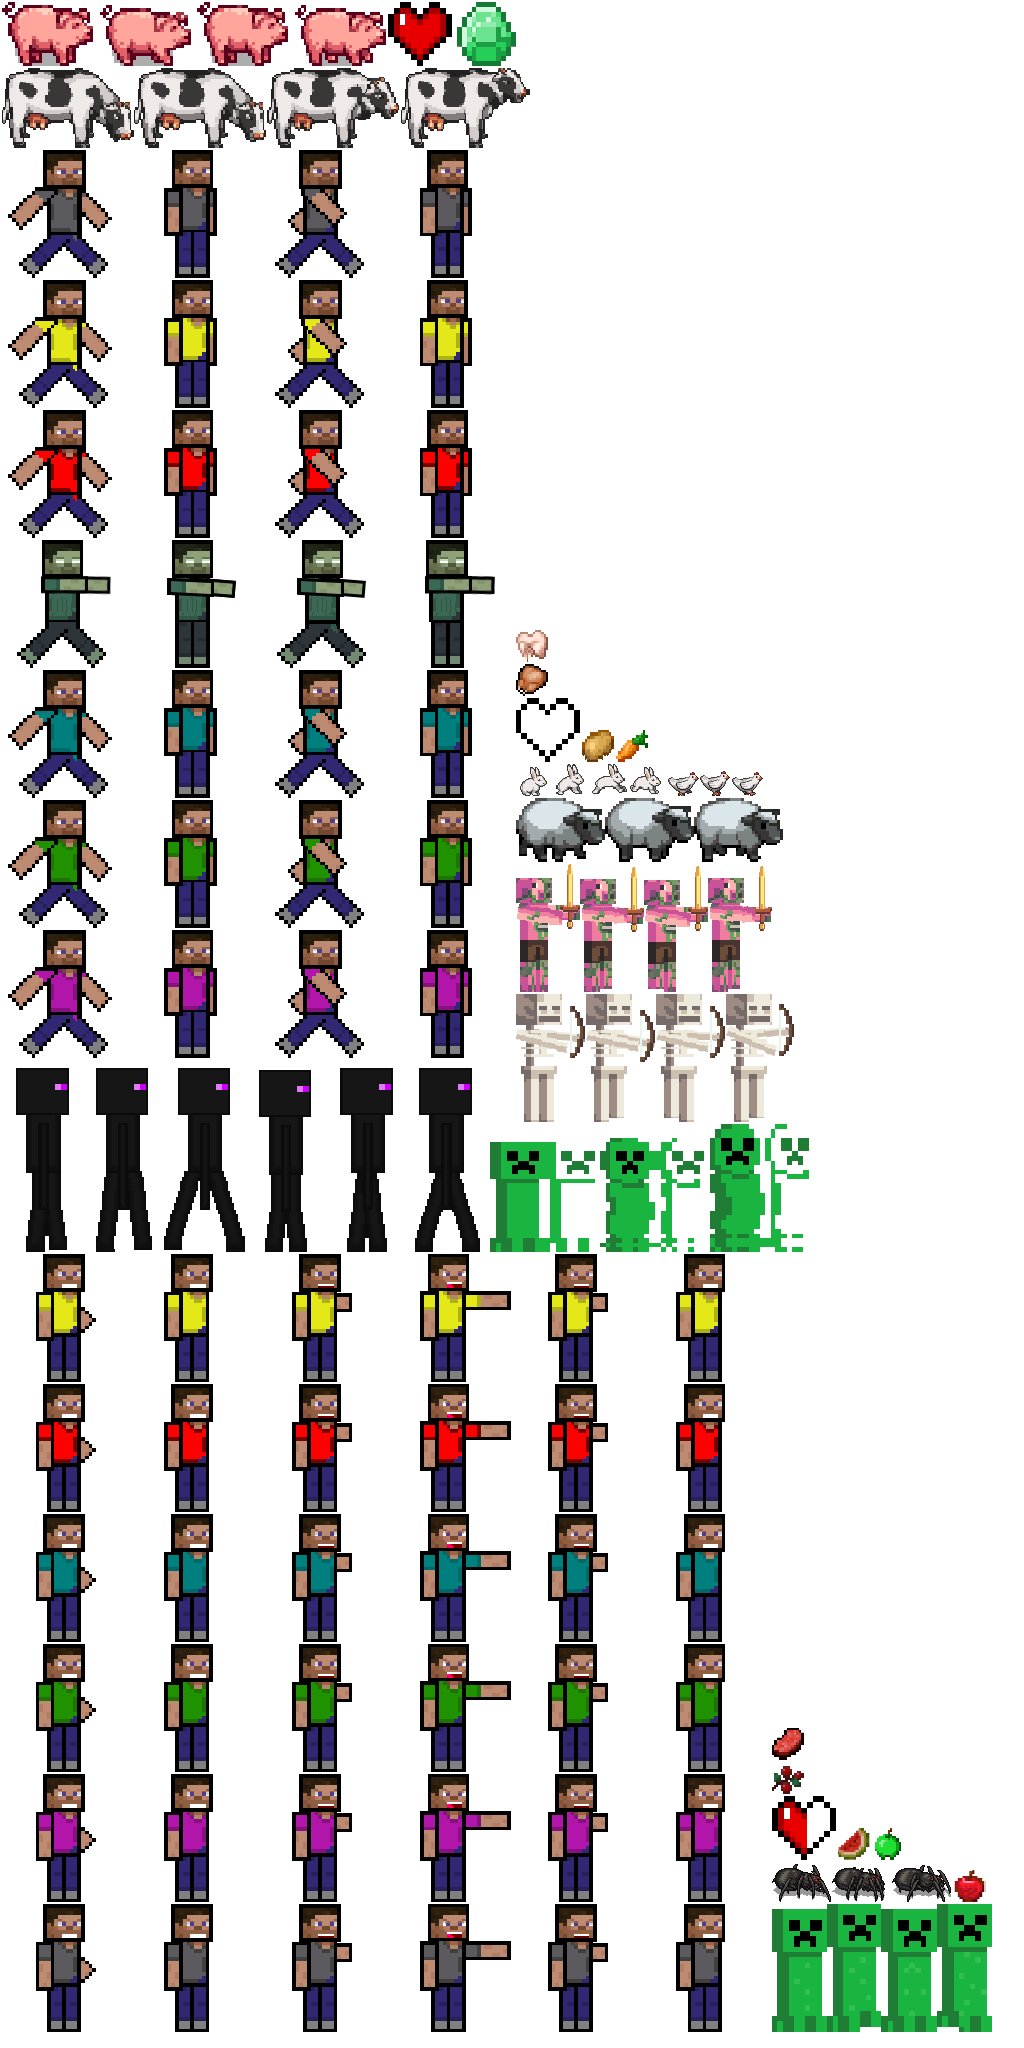
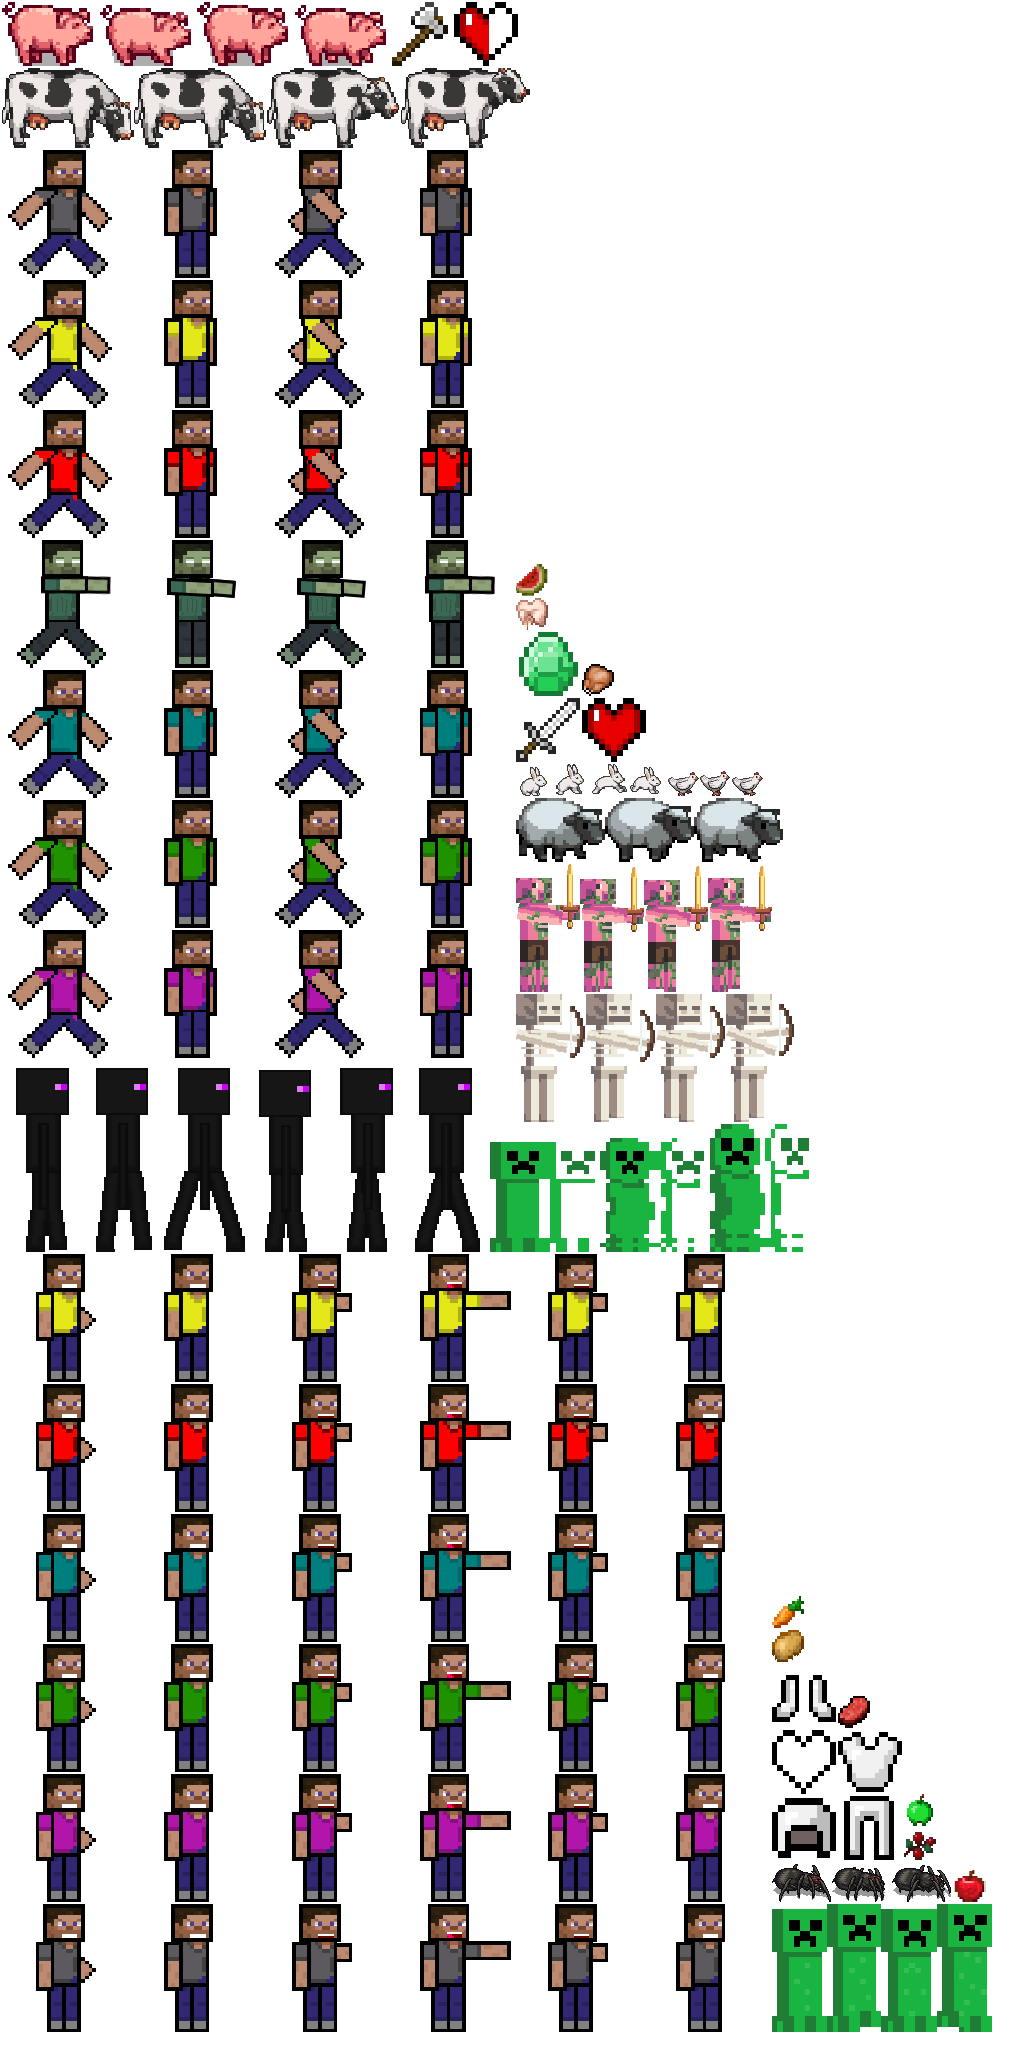
Testing colorear espada

Changed region(s): [[0.75, 0.7812, 0.9062, 0.9062], [0.5, 0.2812, 0.6562, 0.375], [0.375, 0.0, 0.5, 0.0312]]

diff --git a/Minecraft/core/src/game/screens/GameScreen.java b/Minecraft/core/src/game/screens/GameScreen.java
@@ -1,11 +1,14 @@
 package game.screens;
 
 import com.badlogic.gdx.Gdx;
+import com.badlogic.gdx.graphics.Color;
 import com.badlogic.gdx.graphics.GL20;
 import com.badlogic.gdx.graphics.OrthographicCamera;
 import com.badlogic.gdx.graphics.g2d.Batch;
 import com.badlogic.gdx.graphics.g2d.SpriteBatch;
 import com.badlogic.gdx.graphics.g2d.BitmapFont;
+import com.badlogic.gdx.graphics.g2d.Sprite;
+import com.badlogic.gdx.graphics.g2d.TextureRegion;
 import com.badlogic.gdx.maps.tiled.TiledMap;
 import com.badlogic.gdx.maps.tiled.TmxMapLoader;
 import com.badlogic.gdx.maps.tiled.renderers.OrthogonalTiledMapRenderer;
@@ -71,7 +74,7 @@ public class GameScreen extends BaseScreen
         this.player = player;
         actors = new Group();
         ventanaInventario = new FrmInventario(player);
-        
+
         //<editor-fold defaultstate="collapsed" desc="Posicionar Cámara">
         gameCam = new OrthographicCamera();
         viewport = new FillViewport(Constant.FRAME_WIDTH / Constant.PPM, Constant.FRAME_HEIGHT / Constant.PPM, gameCam);
@@ -92,7 +95,6 @@ public class GameScreen extends BaseScreen
     }
 
     //<editor-fold defaultstate="collapsed" desc="Getters & Setters">
-
     public TiledMap getMap()
     {
         return map;
@@ -109,12 +111,11 @@ public class GameScreen extends BaseScreen
     }
     //</editor-fold>
 
-    
     public static FrmInventario getVentanaInventario()
     {
         return ventanaInventario;
     }
-    
+
     @Override
     public void show()
     {
@@ -145,6 +146,7 @@ public class GameScreen extends BaseScreen
         //actors.addActor(new Creeper(this,13,5));
 
         world.setContactListener(new WorldContactListener(player));
+
     }
 
     @Override
@@ -153,8 +155,10 @@ public class GameScreen extends BaseScreen
         viewport.update(width, height);
     }
 
+    //Cosas de prueba para la UI
     Batch batchUI = new SpriteBatch();
     BitmapFont font = new BitmapFont();
+    Sprite espada = new Sprite(this.getAtlas().findRegion("espada"));
 
     @Override
     public void render(float delta)
@@ -188,8 +192,11 @@ public class GameScreen extends BaseScreen
 
         //Con batch aparte dibujar las cosas de la UI
         batchUI.begin();
-        batchUI.draw(this.getAtlas().findRegion("esmeralda"), 100, 100);
-        font.draw(batchUI, "Hello World!", 100, 100);
+        font.draw(batchUI, "Hola mundo", 200, 200);
+        batchUI.draw(espada, 100, 100);
+        espada.setPosition(100, 100);
+        espada.draw(batchUI);
+        espada.setColor(Color.CYAN);
         batchUI.end();
     }
 
